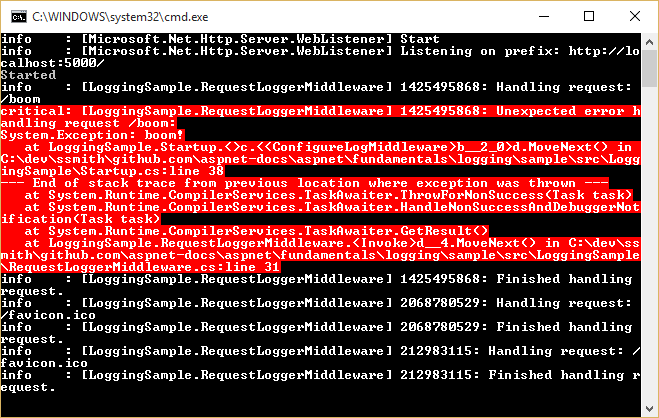
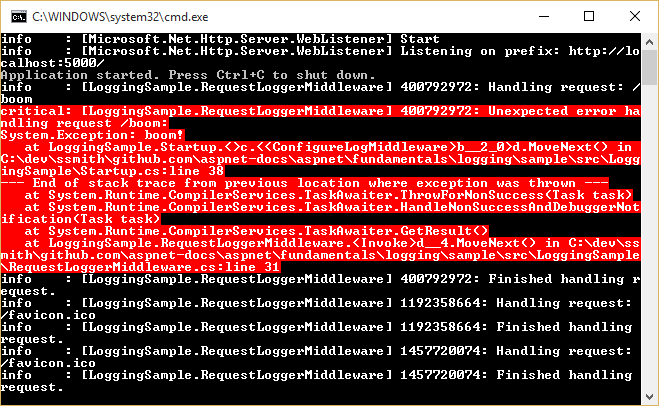
Updated to Beta 7

diff --git a/aspnet/fundamentals/logging.rst b/aspnet/fundamentals/logging.rst
@@ -19,7 +19,7 @@ Adding logging to your application is done by requesting either an ``ILoggerFact
 .. literalinclude:: logging/sample/src/LoggingSample/Startup.cs
 	:language: c#
 	:linenos:
-	:lines: 15-25
+	:lines: 17-27
 	:dedent: 8
 	:emphasize-lines: 2,7-8
 
